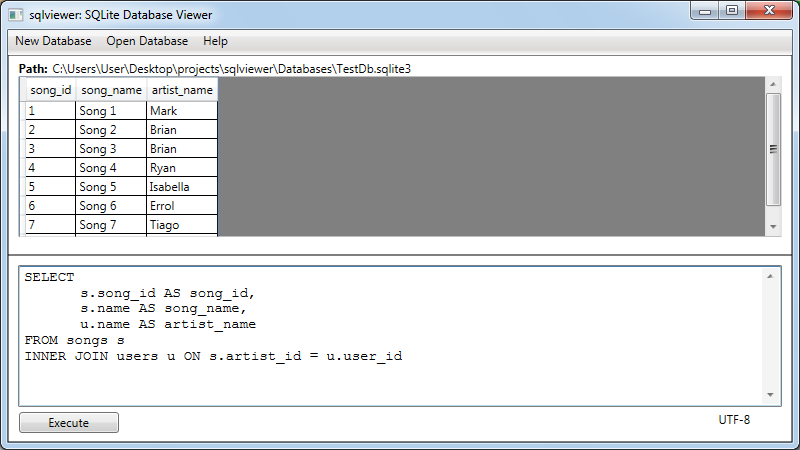
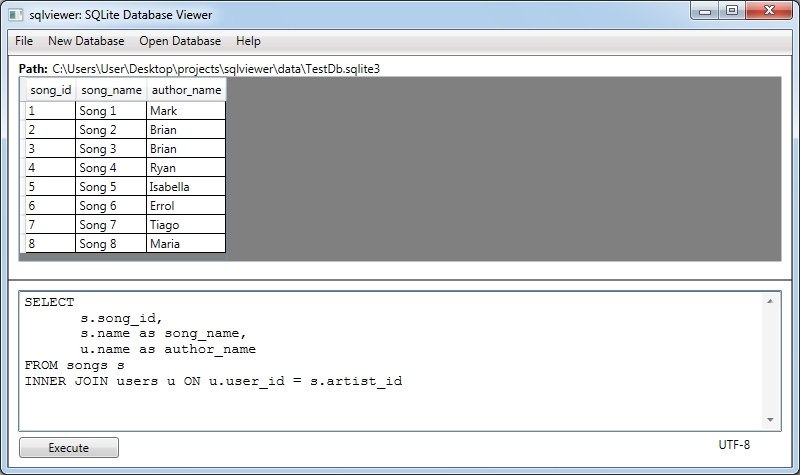
Updated image

Changed region(s): [[0.0, 0.0, 1.0, 0.8089], [0.0, 0.8711, 1.0, 0.9956]]

diff --git a/README.md b/README.md
@@ -3,4 +3,4 @@
 `sqlviewer` is a C# implementation of a GUI for **SQLite**. 
 This application is written with **WPF** using **MVVM** pattern. 
 
-![SongsArtists](Docs/img/SongsArtists.png)
+![SongsArtists](docs/img/SongsArtists.png)
